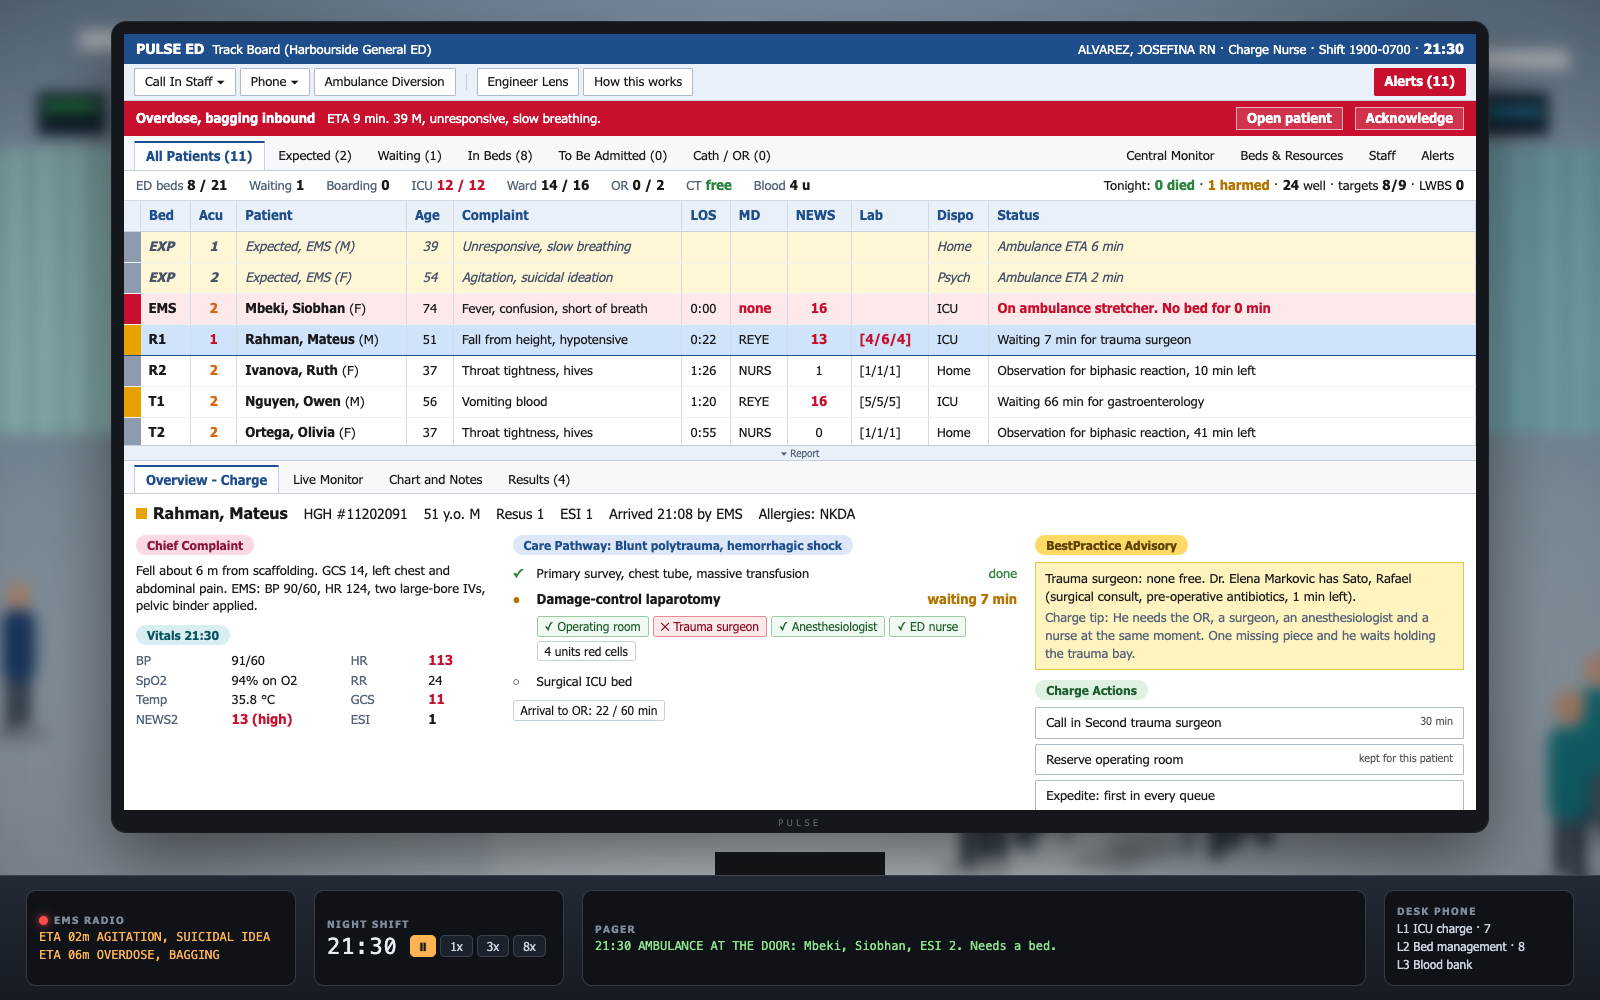
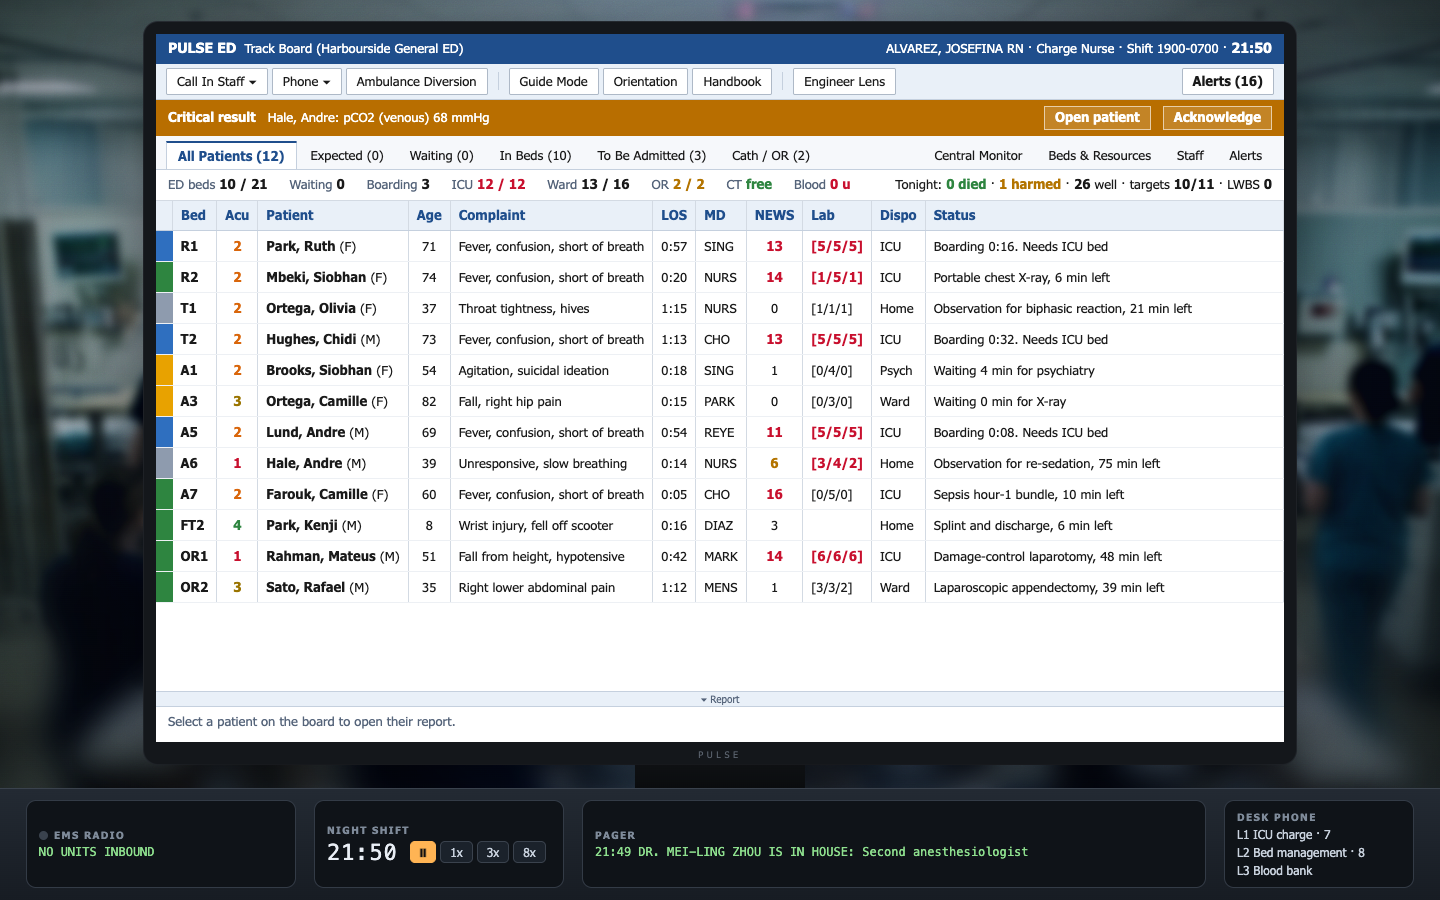
docs(night-shift): design notes for learning tools and screen sizes

diff --git a/prototypes/night-shift/DESIGN.md b/prototypes/night-shift/DESIGN.md
@@ -9,10 +9,10 @@ a care step starts only when **everything it needs is free at the same moment**,
 patient **keeps the place they are in until the next place is theirs**. Those two rules
 are atomic acquisition and hold-and-wait, and they are why real hospitals jam.
 
-Open `index.html` (no server). `?seed=ANYTHING` gives a different night.
+Open `index.html` (no server). `?seed=ANYTHING` gives a different night. `?start=shift` skips the start screen. `handbook.html` is the manual on its own.
 
 ```
-node build.mjs            # src/ -> index.html
+node build.mjs            # src/ -> index.html, handbook.html, docs/CASEBOOK.md
 node --test test/         # engine tests
 node scripts/night.mjs [seed] [--smart] [--log]   # headless night, naive or competent bot
 ```
@@ -33,7 +33,11 @@ node scripts/night.mjs [seed] [--smart] [--log]   # headless night, naive or com
 | Simulation | `src/engine/sim.mjs` | The minute tick: arrivals, physiology, labs, step progress, queueing, cardiac arrest and code team, alerts, gridlock detection, and every charge-nurse action. |
 | Screen | `src/ui/app.js` | PULSE ED: track board, report pane (overview, live monitor, chart and notes, results), central monitor, beds and resources, staff, alerts, end-of-shift review. Desk props: EMS radio, clock and speed, pager, phone. |
 | Monitor | `src/ui/monitor.js` | Synthesized ECG (sinus, ST elevation, atrial fibrillation, VF), pleth and respiration traces from the patient's real numbers. |
-| Backdrop | `src/ui/backdrop.js` | The blurred department behind the screen. Stretchers roll in when an ambulance arrives; staff run on a Code Blue. |
+| Backdrop | `src/ui/backdrop.js` | One photograph of the department (`src/assets/er-floor.jpg`) in layers, with a heavy blur and a clinical grade. The people who walk past are cut out of the same photograph, so they share its colour and light. Stretchers roll in when an ambulance arrives; a Code Blue tints the room. Static on phones and under reduced motion. |
+| Guide text | `src/ui/guide-text.js` | One entry per control: where it is, what it means, what to do. Guide Mode, Orientation and the Handbook's "Every control" page all read from it, so they cannot disagree. |
+| Guide Mode | `src/ui/guide.js` | Stops the clock. Hover or focus explains any element. On touch, a tap opens a sheet instead of acting, with a button to use the control anyway. |
+| Orientation | `src/ui/tutorial.js` | 62 steps in 7 chapters on a separate practice night. Saves the chapter you reached. A shift in progress is set aside and handed back. |
+| Handbook | `src/ui/handbook.js`, `docs/HANDBOOK.md` | The manual, compiled at build time with the case book and the control list. Searchable in the game. The build fails if a control links to a missing section. |
 
 ## How a patient moves
 
@@ -65,10 +69,26 @@ The Engineer Lens button shows these words on alerts. They never appear otherwis
 patients. A simple bot that also calls teams in, phones for beds, expedites and
 huddles loses 2 to 6. Reserving ahead and holding the right patient is what closes the gap.
 
+## Learning the game
+
+| If you want to | Use |
+|---|---|
+| Be walked through it | Orientation, from the start screen or the toolbar |
+| Find out what one thing means | Guide Mode (G), then point at it |
+| Look something up | Handbook (H) |
+
+![A patient's route through the department](diagrams/journey.svg)
+
+*A patient keeps their bed through every care step, until the next place is free.*
+
+## Screen sizes
+
+The screen is a size container, so columns drop by the width of the screen and not the window. Under 1120 px Age and Lab go, under 960 px MD and Dispo go, and Status wraps instead of being cut off. Below 1200 px wide the bezel thins, below 1000 px the monitor fills the view, and below 720 px wide or 520 px tall the board becomes cards with a bottom navigation and the report becomes a full-screen sheet. Where a small screen hides something Orientation points at, the step says so.
+
 ## Honest limits
 
 - Clinical content is written from general emergency-medicine knowledge to be plausible and consistent. No clinician has reviewed it. It is game content, not guidance.
 - Times are compressed (observation periods, surgery lengths).
 - Staff are step resources. Nurse-to-patient ratios, breaks and fatigue are not modelled yet.
 - One pathway per condition. No diagnostic mimics yet (aortic dissection dressed as STEMI), no bed cleaning, no families.
-- No sound. No save. The backdrop is drawn, not filmed.
+- No sound. No save for a shift in progress. The backdrop is one still photograph with people moving across it, so the camera never changes position.
